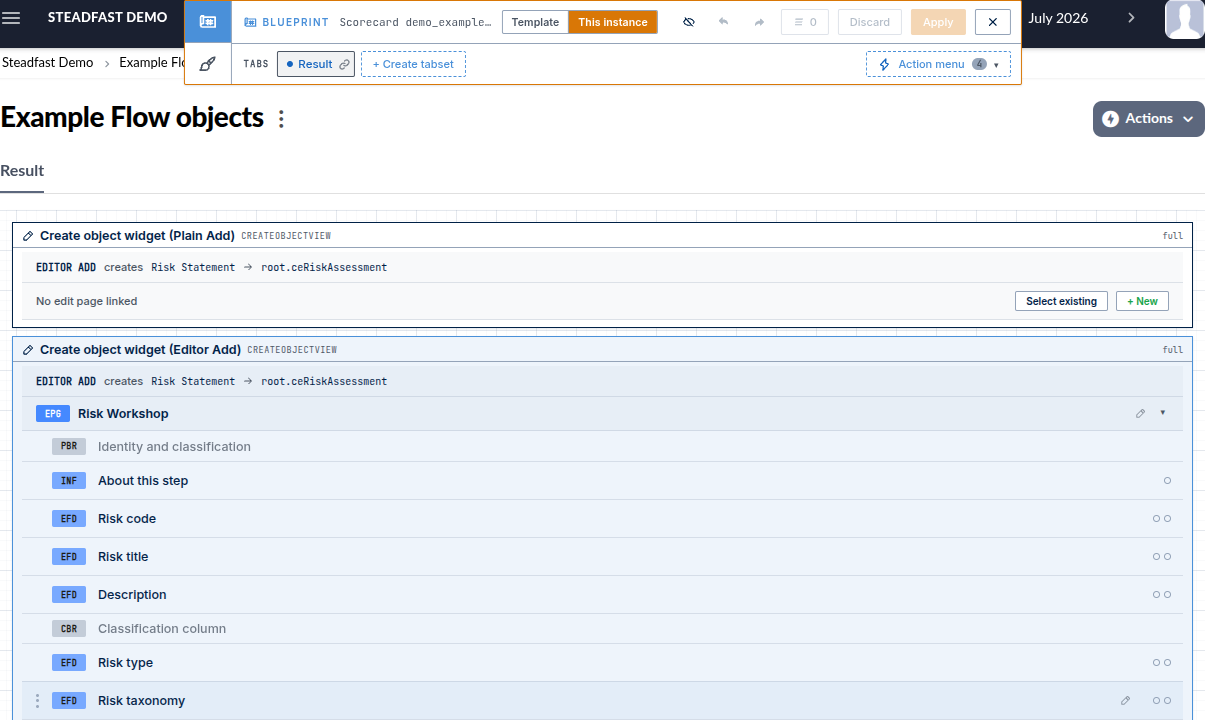
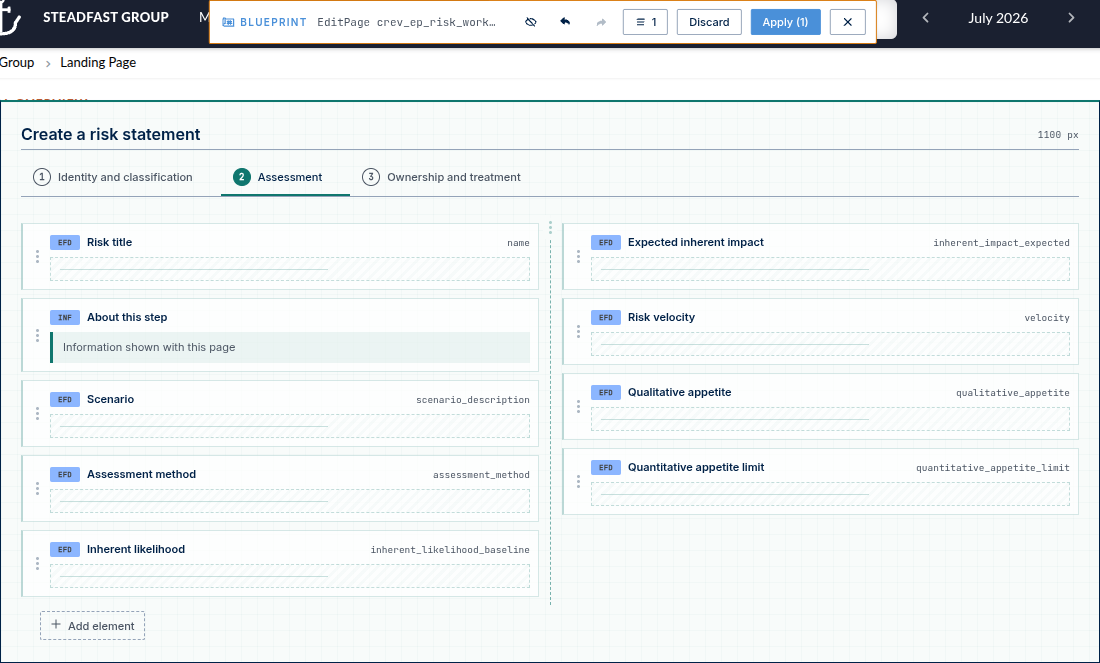
docs: sharpen the README feature guide
Replace the basic Blueprint example with a focused three-page, two-column form and show Inspect on the live page with its object pill and hover card.

Condense connection setup to the required access model and describe the AI assistant by user outcomes instead of provider JSON internals.

diff --git a/README.md b/README.md
@@ -2,10 +2,6 @@
 
 CREV Inspector is a Chrome side-panel extension for inspecting and changing Corporater BMP without opening Configuration Studio. It labels the objects rendered on a BMP page, opens their real configuration, edits code, and stages visual layout changes.
 
-<p align="center">
-  <img src="docs/images/inspect-object.png" width="520" alt="CREV Inspector showing the code property of a TextElement">
-</p>
-
 ## Install
 
 1. Download `crev-inspector-x.y.z.zip` from [Releases](https://github.com/HeinemannT/crev-inspector/releases/latest) and unzip it.
@@ -17,21 +13,15 @@ Current Chromium browsers are supported (Chrome or Edge 114+).
 
 ## Connect to BMP
 
-Open **Connect**, add the BMP workspace URL, then approve Chrome's site-access prompt. CREV requests access only to configured BMP origins and revokes it when you delete a profile.
-
-Credentials are optional. With no password, CREV borrows your active browser session, including SSO, VPN, and client-certificate sessions. If you store credentials, CREV tries the browser session first and uses the stored login as a fallback.
-
-The connection strip distinguishes these states:
-
-- **Connected via browser session**
-- **Connected via stored login**
-- **Not logged in**
-- **No Configuration Access**
-- **Authentication failed**
+Sign in to BMP with an account that has Configuration Access (normally an administrator or configurator), then add the workspace URL under **Connect** and approve Chrome's site-access prompt. CREV normally borrows the active browser session; stored credentials are an optional fallback.
 
 ## Inspect objects
 
 Turn on **Inspect** from the header or press `Ctrl+Shift+X`. CREV outlines rendered BMP objects and adds a type-coloured ID pill.
+
+<p align="center">
+  <img src="docs/images/inspect-object.png" width="980" alt="A BMP widget outlined by Inspect with its object pill, flow action, and hover card">
+</p>
 
 | Gesture | Result |
 |---|---|
@@ -71,7 +61,7 @@ Text and CVO properties open in their dedicated studios:
 Press `Ctrl+Shift+B` to place Blueprint over the live page. Choose **Template** or **This instance**, then work with the structure BMP actually renders.
 
 <p align="center">
-  <img src="docs/images/blueprint-page.png" width="980" alt="Blueprint showing a rendered scorecard, a CreateObjectView, and its linked EditPage fields">
+  <img src="docs/images/blueprint-page.png" width="1000" alt="Blueprint showing a three-page EditPage with two columns, information blocks, and multiple field types">
 </p>
 
 Blueprint supports:
@@ -88,10 +78,6 @@ Changes remain staged. The counter, undo, redo, and discard controls operate on 
 
 Edit Page Blueprint follows page navigation, page breaks, columns, field order, and the configured form width. Move fields within or between columns and pages, add supported elements, and edit field properties while seeing the rendered form structure.
 
-<p align="center">
-  <img src="docs/images/blueprint-edit-page.png" width="900" alt="Edit Page Blueprint showing two pages and editable fields at the configured width">
-</p>
-
 A CreateObjectView can select an existing EditPage or stage a new one. New EditPages inherit the object class needed to configure their fields immediately.
 
 ## Find references, code, and differences
@@ -103,34 +89,17 @@ A CreateObjectView can select an existing EditPage or stage a new one. New EditP
 
 ## Use the optional AI assistant
 
-Open **Connect → AI Assistant → Set up**. Built-in presets cover Anthropic, OpenAI, DeepSeek, and Grok. The AI UI stays hidden until you configure a provider.
+Configure a provider under **Connect → AI Assistant → Set up**. CREV supports Anthropic, OpenAI, DeepSeek, Grok, and custom compatible endpoints.
 
-For another endpoint, click **Add custom provider** and edit the JSON:
+Use the assistant to:
 
-```json
-{
-  "name": "OpenRouter",
-  "vendor": "openrouter",
-  "apiKey": "",
-  "apiType": "openai",
-  "models": [
-    {
-      "id": "anthropic/claude-sonnet-4",
-      "name": "Claude Sonnet 4",
-      "url": "https://openrouter.ai/api/v1",
-      "toolCalling": true,
-      "vision": true,
-      "maxInputTokens": 200000,
-      "maxOutputTokens": 64000,
-      "maxTokensParam": "max_completion_tokens"
-    }
-  ]
-}
-```
+- explain the selected object, its properties, references, and place in the page
+- trace supported widget and action flows
+- find workspace objects and return them as hoverable, clickable object chips
+- explain, draft, or revise Extended Code using the current editor context
+- work through HTML, CVO, and JSON transformation problems
 
-`apiType` selects the wire format and accepts `openai` or `anthropic`. OpenAI-format models default to `max_completion_tokens`; set `maxTokensParam` to `max_tokens` for DeepSeek and older compatible APIs. At least one model must enable `toolCalling`. CREV encrypts the key and removes it from the saved JSON.
-
-Chat uses the current object and page context. Object references render as the same hoverable, clickable chips used elsewhere in CREV. Code changes are proposals until you review and save them.
+The assistant can inspect workspace context, but code changes remain proposals until you review and save them.
 
 ## Shortcuts
 
